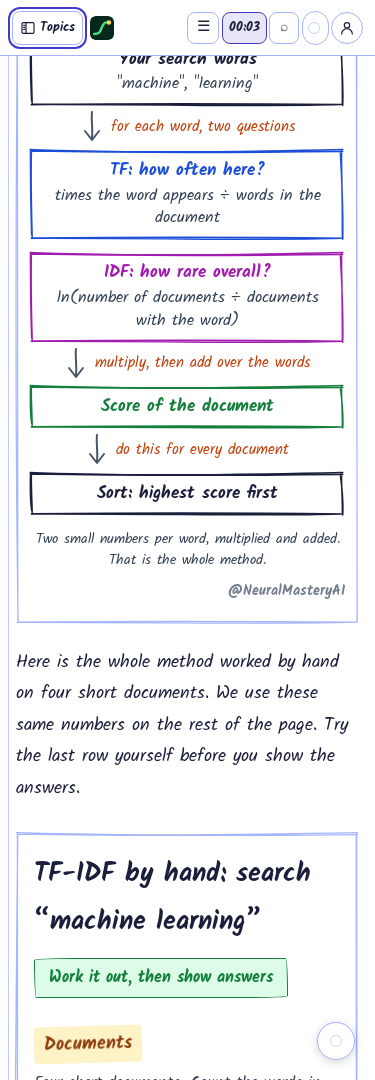
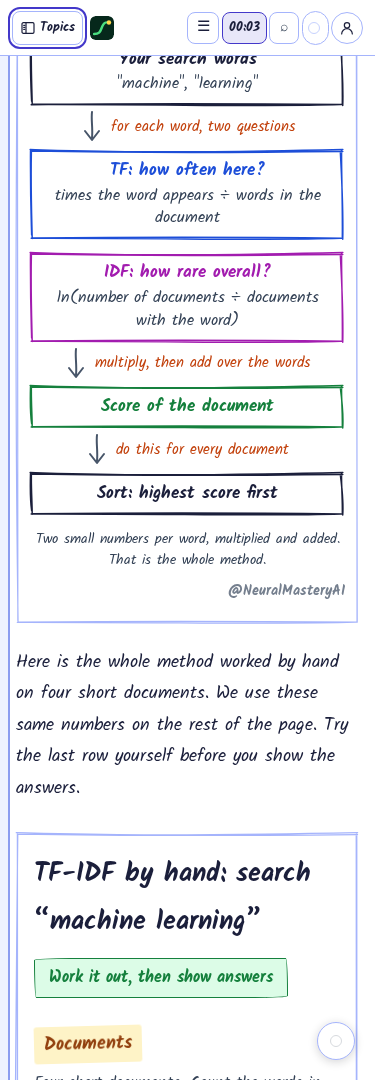
pilot(page-standard): tinted margin strip and firmer blue margin rule

Changed region(s): [[0.0, 0.0611, 0.0293, 1.0]]

diff --git a/src/styles/theme.css b/src/styles/theme.css
@@ -1991,3 +1991,14 @@ div:has(> .nm-doc-row) {
 .nm-panel-toggle { transition: transform 120ms ease, box-shadow 120ms ease; }
 .nm-panel-toggle:hover { box-shadow: 0 6px 16px rgba(30,41,90,0.2) !important; filter: brightness(0.98); }
 .nm-panel-toggle:focus-visible { outline: 2px solid var(--nm-hl-2-ink); outline-offset: 2px; }
+/* Owner, 18 Nov: the margin strip is tinted like a notebook margin and the rule is
+   a firmer blue pencil line, so the page edge reads clearly. */
+:root { --nm-margin-fill: #EEF2FF; --nm-margin-rule: #8B9CF0; }
+[data-theme='dark'], [data-theme='forest-dark'] { --nm-margin-fill: rgba(129,140,248,0.08); --nm-margin-rule: #5B67C9; }
+.nm-doc-main.nm-notebook-sheet {
+  background-image: linear-gradient(to right, var(--nm-margin-fill) 0, var(--nm-margin-fill) 1.5rem, transparent 1.5rem) !important;
+}
+.nm-notebook-sheet::before { width: 2px !important; background: var(--nm-margin-rule) !important; opacity: 1 !important; }
+@media (max-width: 900px) {
+  .nm-doc-main.nm-notebook-sheet { background-image: linear-gradient(to right, var(--nm-margin-fill) 0, var(--nm-margin-fill) 0.5rem, transparent 0.5rem) !important; }
+}

diff --git a/docs/standards/page-standard.md b/docs/standards/page-standard.md
@@ -45,7 +45,7 @@ Blog posts: title, one-paragraph summary, then the body with the same look rules
 - A plain white page (dark theme: its dark counterpart), with **only** the red margin line on the left. No ruled lines.
 - Diary header at the top: "Neural Mastery · date".
 - **The page is a sheet of paper on a desk** (owner, 18 Nov): the area around the page is a soft tint with a faint dot grid, and the page is white with a soft shadow. On phones the page fills the screen with no desk.
-- The margin line is a thin, soft pencil line in the table-border colour, not red.
+- The margin is a soft blue tinted strip with a firm 2 px blue pencil line, not red.
 - The side panels open and close with labelled index tabs ("Topics" yellow, "On this page" blue, written vertically with an arrow). An unlabelled arrow is not enough.
 - **Reading column: 720 px maximum** for text. Drawings, tables and widgets may go to 960 px. Today prose runs up to 1,400 px; lines that long are hard to read.
 
